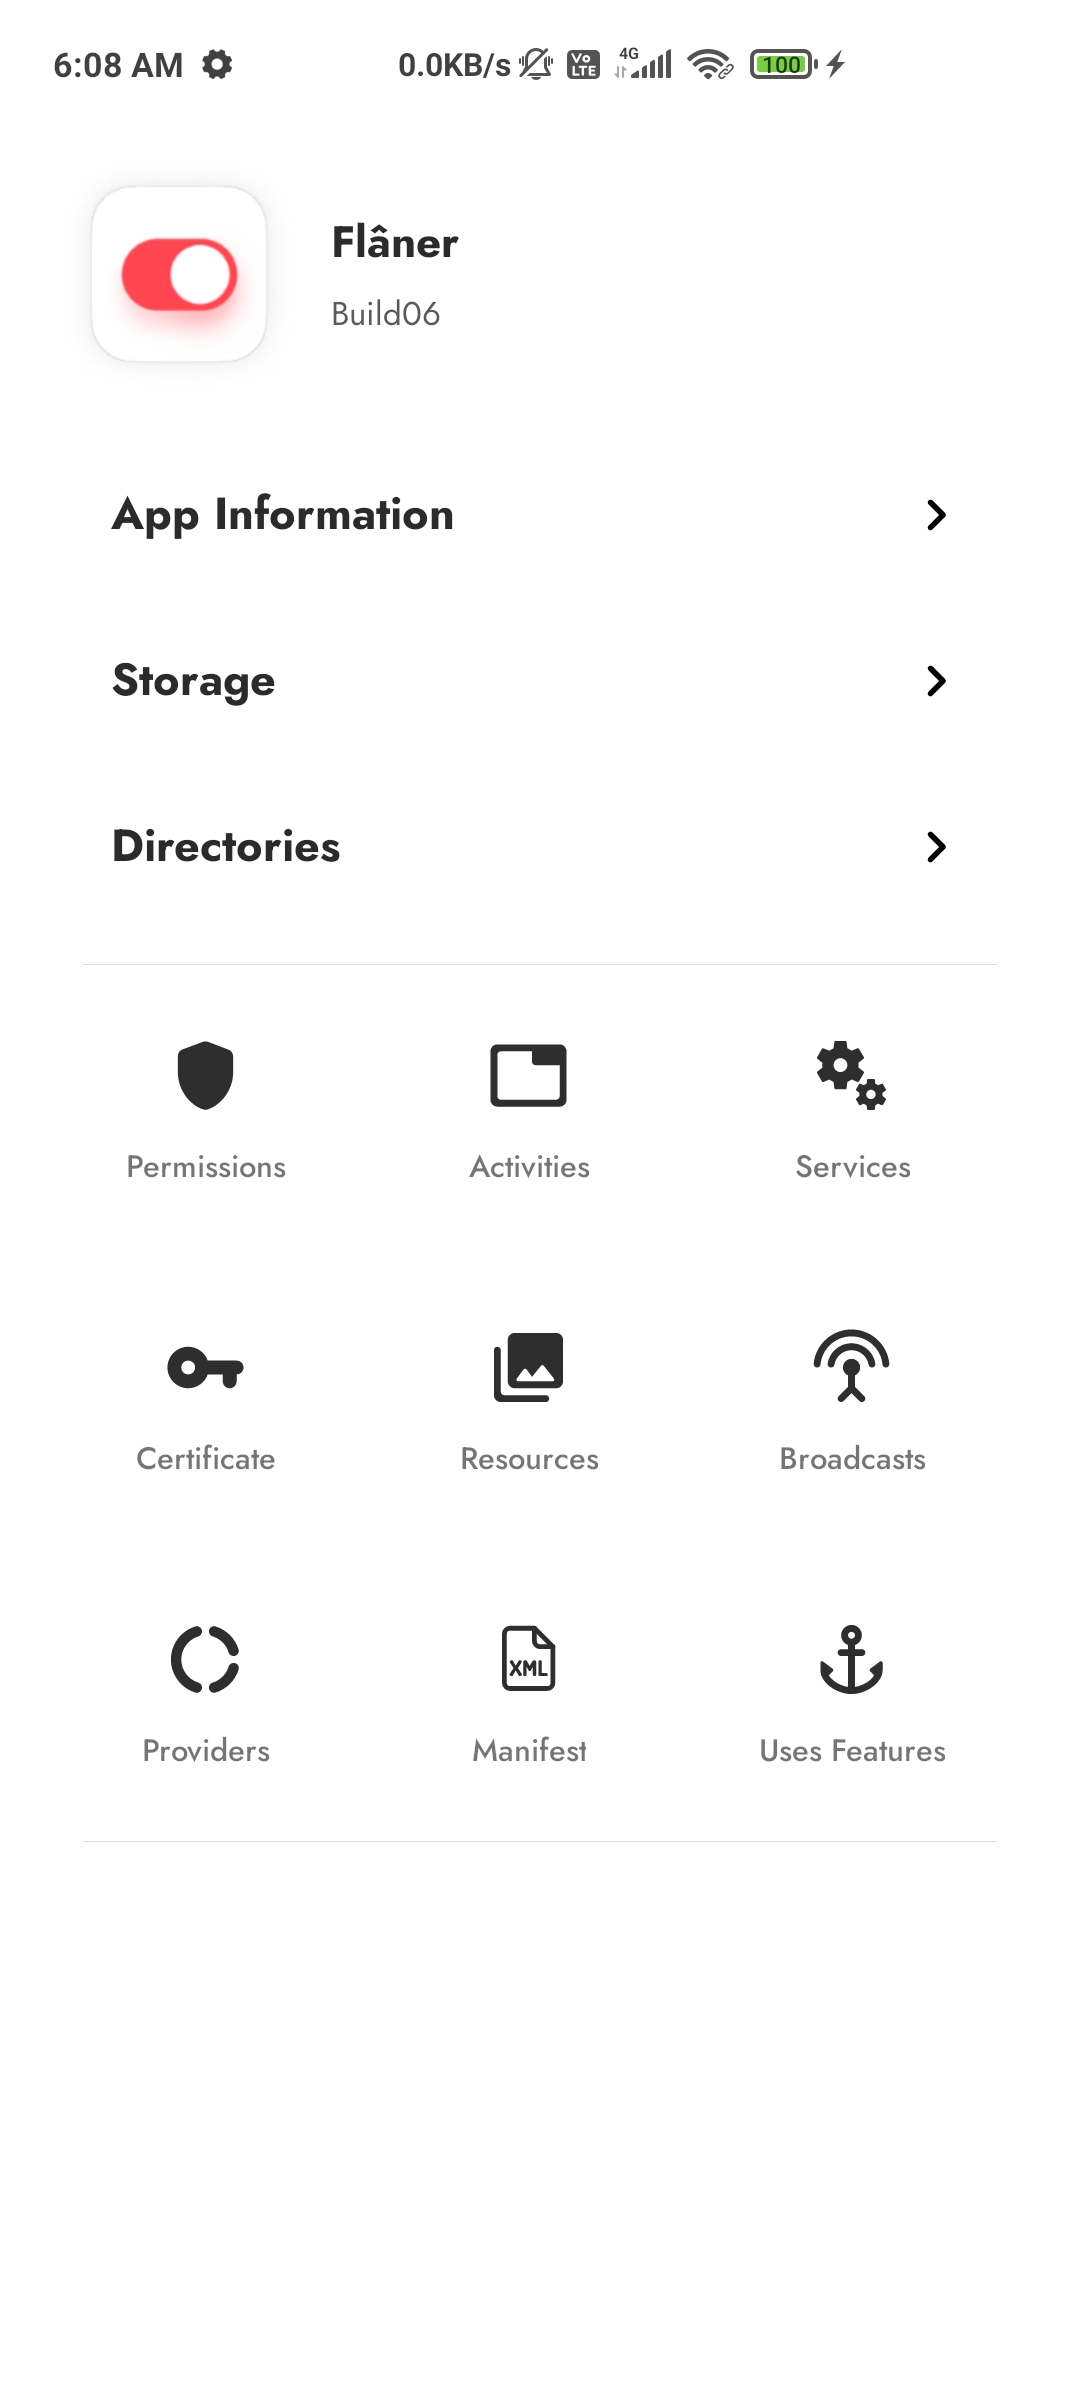
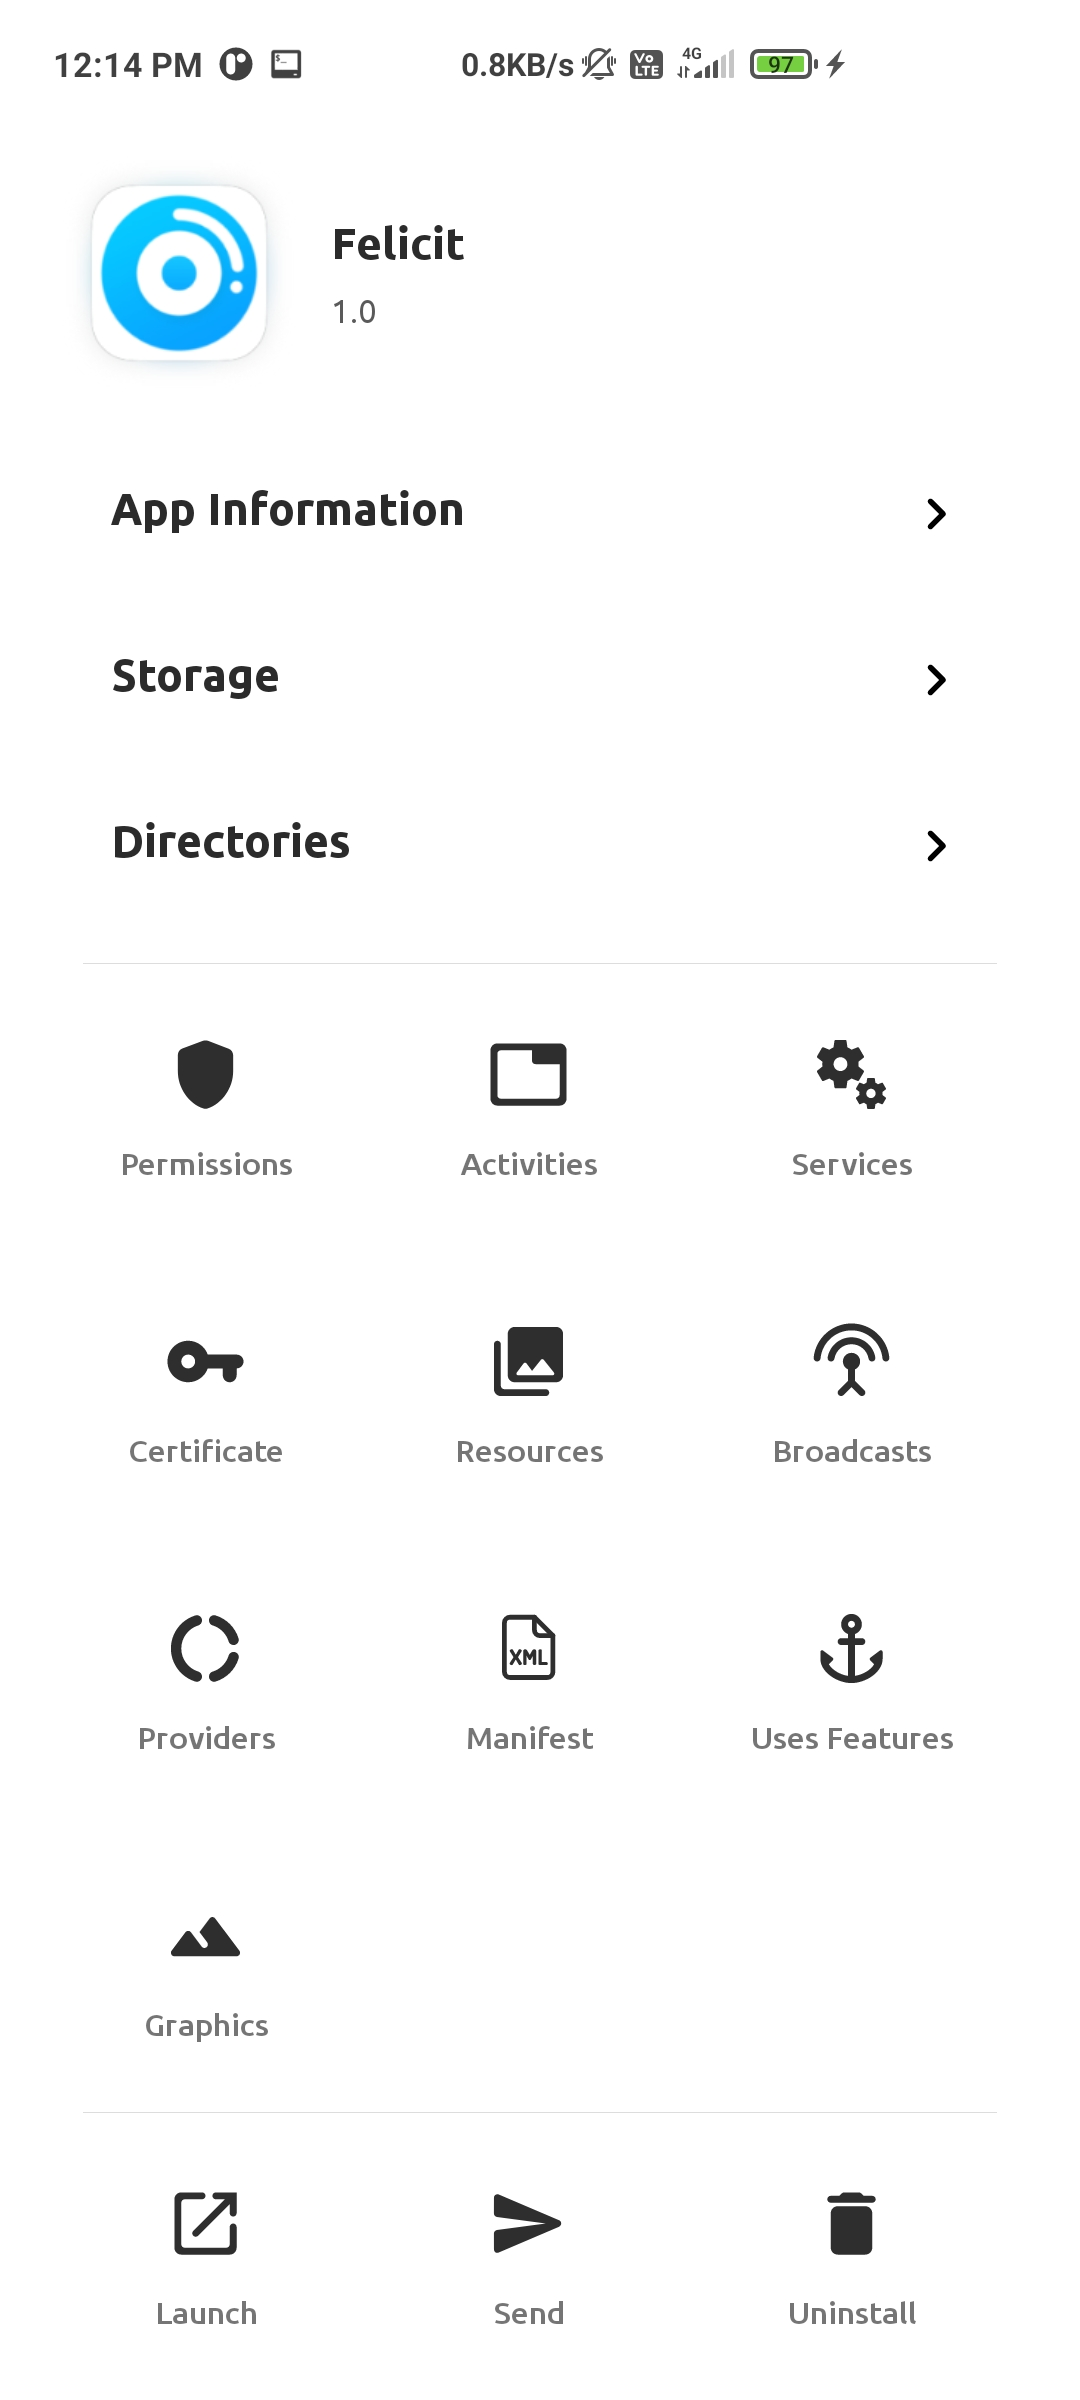
Initial Commit
- Added app utility options in App Info panel

diff --git a/app/src/main/java/app/simple/inure/ui/app/AppInfo.kt b/app/src/main/java/app/simple/inure/ui/app/AppInfo.kt
@@ -1,5 +1,7 @@
 package app.simple.inure.ui.app
 
+import android.app.Activity
+import android.content.Intent
 import android.content.pm.ApplicationInfo
 import android.content.res.Configuration
 import android.os.Bundle
@@ -7,6 +9,8 @@ import android.view.LayoutInflater
 import android.view.View
 import android.view.ViewGroup
 import android.widget.ImageView
+import androidx.activity.result.ActivityResultLauncher
+import androidx.activity.result.contract.ActivityResultContracts
 import androidx.core.view.doOnPreDraw
 import androidx.fragment.app.viewModels
 import androidx.recyclerview.widget.GridLayoutManager
@@ -21,6 +25,9 @@ import app.simple.inure.preferences.ConfigurationPreferences
 import app.simple.inure.ui.viewers.*
 import app.simple.inure.util.FragmentHelper.openFragment
 import app.simple.inure.util.PackageUtils
+import app.simple.inure.util.PackageUtils.launchThisPackage
+import app.simple.inure.util.PackageUtils.uninstallThisPackage
+import app.simple.inure.viewmodels.AppData
 import app.simple.inure.viewmodels.AppInfoMenuData
 
 class AppInfo : ScopedFragment() {
@@ -33,10 +40,12 @@ class AppInfo : ScopedFragment() {
     private lateinit var storage: DynamicRippleTextView
     private lateinit var directories: DynamicRippleTextView
     private lateinit var menu: RecyclerView
+    private lateinit var options: RecyclerView
 
     private lateinit var applicationInfo: ApplicationInfo
     private lateinit var adapterAppInfoMenu: AdapterAppInfoMenu
-    private val options: AppInfoMenuData by viewModels()
+    private val model: AppInfoMenuData by viewModels()
+    private lateinit var appUninstallObserver: ActivityResultLauncher<Intent>
 
     private var spanCount = 3
 
@@ -50,8 +59,15 @@ class AppInfo : ScopedFragment() {
         storage = view.findViewById(R.id.app_info_storage_tv)
         directories = view.findViewById(R.id.app_info_directories_tv)
         menu = view.findViewById(R.id.app_info_menu)
+        options = view.findViewById(R.id.app_info_options)
 
         applicationInfo = requireArguments().getParcelable("application_info")!!
+
+        spanCount = if (this.resources.configuration.orientation == Configuration.ORIENTATION_PORTRAIT) {
+            3
+        } else {
+            6
+        }
 
         return view
     }
@@ -59,14 +75,8 @@ class AppInfo : ScopedFragment() {
     override fun onViewCreated(view: View, savedInstanceState: Bundle?) {
         super.onViewCreated(view, savedInstanceState)
 
-        options.getMenuOptions().observe(requireActivity(), {
+        model.getMenuItems().observe(requireActivity(), {
             postponeEnterTransition()
-
-            spanCount = if (this.resources.configuration.orientation == Configuration.ORIENTATION_PORTRAIT) {
-                3
-            } else {
-                6
-            }
 
             adapterAppInfoMenu = AdapterAppInfoMenu(it)
             adapterAppInfoMenu.stateRestorationPolicy = RecyclerView.Adapter.StateRestorationPolicy.ALLOW
@@ -141,6 +151,42 @@ class AppInfo : ScopedFragment() {
                 }
             })
         })
+
+        model.getMenuOptions().observe(requireActivity(), {
+            val adapterAppInfoMenu = AdapterAppInfoMenu(it)
+            options.layoutManager = GridLayoutManager(requireContext(), spanCount, GridLayoutManager.VERTICAL, false)
+            options.adapter = adapterAppInfoMenu
+            options.scheduleLayoutAnimation()
+
+            adapterAppInfoMenu.setOnAppInfoMenuCallback(object : AdapterAppInfoMenu.AppInfoMenuCallbacks {
+                override fun onAppInfoMenuClicked(source: String, icon: ImageView) {
+                    when (source) {
+                        getString(R.string.launch) -> {
+                            applicationInfo.launchThisPackage(requireActivity())
+                        }
+                        getString(R.string.uninstall) -> {
+                            applicationInfo.uninstallThisPackage(appUninstallObserver)
+                        }
+                    }
+                }
+            })
+        })
+
+        appUninstallObserver = registerForActivityResult(ActivityResultContracts.StartActivityForResult()) { result ->
+            when (result.resultCode) {
+                Activity.RESULT_OK -> {
+                    val model: AppData by viewModels()
+                    model.loadAppData()
+                    model.getAppData().observe(requireActivity(), {
+                        requireActivity().supportFragmentManager
+                                .popBackStack()
+                    })
+                }
+                Activity.RESULT_CANCELED -> {
+                    /* no-op */
+                }
+            }
+        }
 
         icon.transitionName = requireArguments().getString("transition_name")
         icon.loadAppIcon(requireContext(), applicationInfo.packageName)

diff --git a/app/src/main/java/app/simple/inure/viewmodels/AppInfoMenuData.kt b/app/src/main/java/app/simple/inure/viewmodels/AppInfoMenuData.kt
@@ -10,17 +10,41 @@ import kotlinx.coroutines.Dispatchers
 import kotlinx.coroutines.launch
 
 class AppInfoMenuData(application: Application) : AndroidViewModel(application) {
+    private val menuItems: MutableLiveData<List<Pair<Int, String>>> by lazy {
+        MutableLiveData<List<Pair<Int, String>>>().also {
+            loadItems()
+        }
+    }
+
     private val menuOptions: MutableLiveData<List<Pair<Int, String>>> by lazy {
         MutableLiveData<List<Pair<Int, String>>>().also {
             loadOptions()
         }
     }
 
-    fun getMenuOptions() : LiveData<List<Pair<Int, String>>> {
+    fun getMenuItems(): LiveData<List<Pair<Int, String>>> {
+        return menuItems
+    }
+
+    fun getMenuOptions(): LiveData<List<Pair<Int, String>>> {
         return menuOptions
     }
 
     private fun loadOptions() {
+        CoroutineScope(Dispatchers.Default).launch {
+            val context = getApplication<Application>().applicationContext
+
+            val list = listOf(
+                Pair(R.drawable.ic_launch, context.getString(R.string.launch)),
+                Pair(R.drawable.ic_send, context.getString(R.string.send)),
+                Pair(R.drawable.ic_delete, context.getString(R.string.uninstall)),
+            )
+
+            menuOptions.postValue(list)
+        }
+    }
+
+    private fun loadItems() {
         CoroutineScope(Dispatchers.Default).launch {
             val context = getApplication<Application>().applicationContext
 
@@ -37,7 +61,7 @@ class AppInfoMenuData(application: Application) : AndroidViewModel(application) 
                 Pair(R.drawable.ic_graphics, context.getString(R.string.graphics))
             )
 
-            menuOptions.postValue(list)
+            menuItems.postValue(list)
         }
     }
 }

diff --git a/app/src/main/java/app/simple/inure/ui/app/Apps.kt b/app/src/main/java/app/simple/inure/ui/app/Apps.kt
@@ -1,4 +1,4 @@
-    package app.simple.inure.ui.app
+package app.simple.inure.ui.app
 
 import android.app.Activity
 import android.content.Intent
@@ -36,6 +36,7 @@ import app.simple.inure.popups.app.PopupMainMenu
 import app.simple.inure.preferences.MainPreferences
 import app.simple.inure.ui.preferences.MainPreferencesScreen
 import app.simple.inure.util.FragmentHelper.openFragmentLinear
+import app.simple.inure.util.PackageUtils.isPackageInstalled
 import app.simple.inure.util.PackageUtils.killThisApp
 import app.simple.inure.util.PackageUtils.launchThisPackage
 import app.simple.inure.util.PackageUtils.uninstallThisPackage
@@ -70,6 +71,13 @@ class Apps : ScopedFragment() {
         model.getAppData().observe(requireActivity(), {
             postponeEnterTransition()
             allAppsList = it
+
+            for (i in allAppsList.indices) {
+                if (!allAppsList[i].isPackageInstalled(requireActivity().packageManager)) {
+                    model.loadAppData()
+                    return@observe
+                }
+            }
 
             appsAdapter = AppsAdapterSmall()
             appsAdapter.apps = allAppsList

diff --git a/app/src/main/java/app/simple/inure/util/PackageUtils.kt b/app/src/main/java/app/simple/inure/util/PackageUtils.kt
@@ -5,7 +5,10 @@ import android.app.ActivityManager
 import android.app.usage.StorageStatsManager
 import android.content.Context
 import android.content.Intent
-import android.content.pm.*
+import android.content.pm.ApplicationInfo
+import android.content.pm.IPackageStatsObserver
+import android.content.pm.PackageManager
+import android.content.pm.PackageStats
 import android.net.Uri
 import android.os.RemoteException
 import android.widget.Toast
@@ -122,6 +125,15 @@ object  PackageUtils {
             mActivityManager.killBackgroundProcesses(this.packageName)
             Toast.makeText(activity.baseContext, activity.baseContext.getString(R.string.alert_app_killed), Toast.LENGTH_SHORT)
                     .show()
+        }
+    }
+
+    fun ApplicationInfo.isPackageInstalled(packageManager: PackageManager): Boolean {
+        return try {
+            packageManager.getPackageInfo(packageName, 0)
+            true
+        } catch (e: PackageManager.NameNotFoundException) {
+            false
         }
     }
 

diff --git a/app/src/main/java/app/simple/inure/decorations/terminal/Terminal.java b/app/src/main/java/app/simple/inure/decorations/terminal/Terminal.java
@@ -29,7 +29,7 @@ public class Terminal {
     private static int sNumber = 0;
     
     static {
-        System.loadLibrary("jni_terminal");
+        System.loadLibrary("_inure_terminal");
     }
     
     /**
